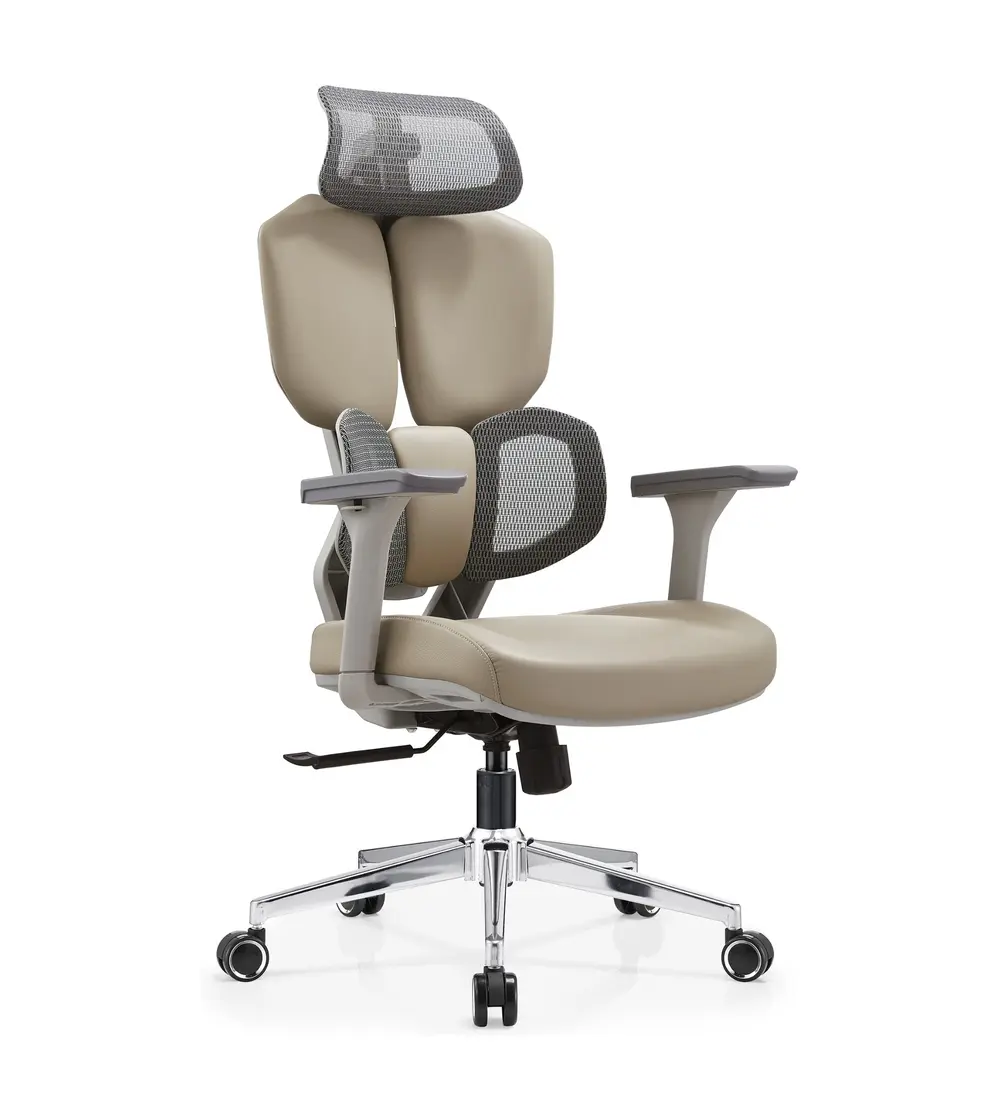
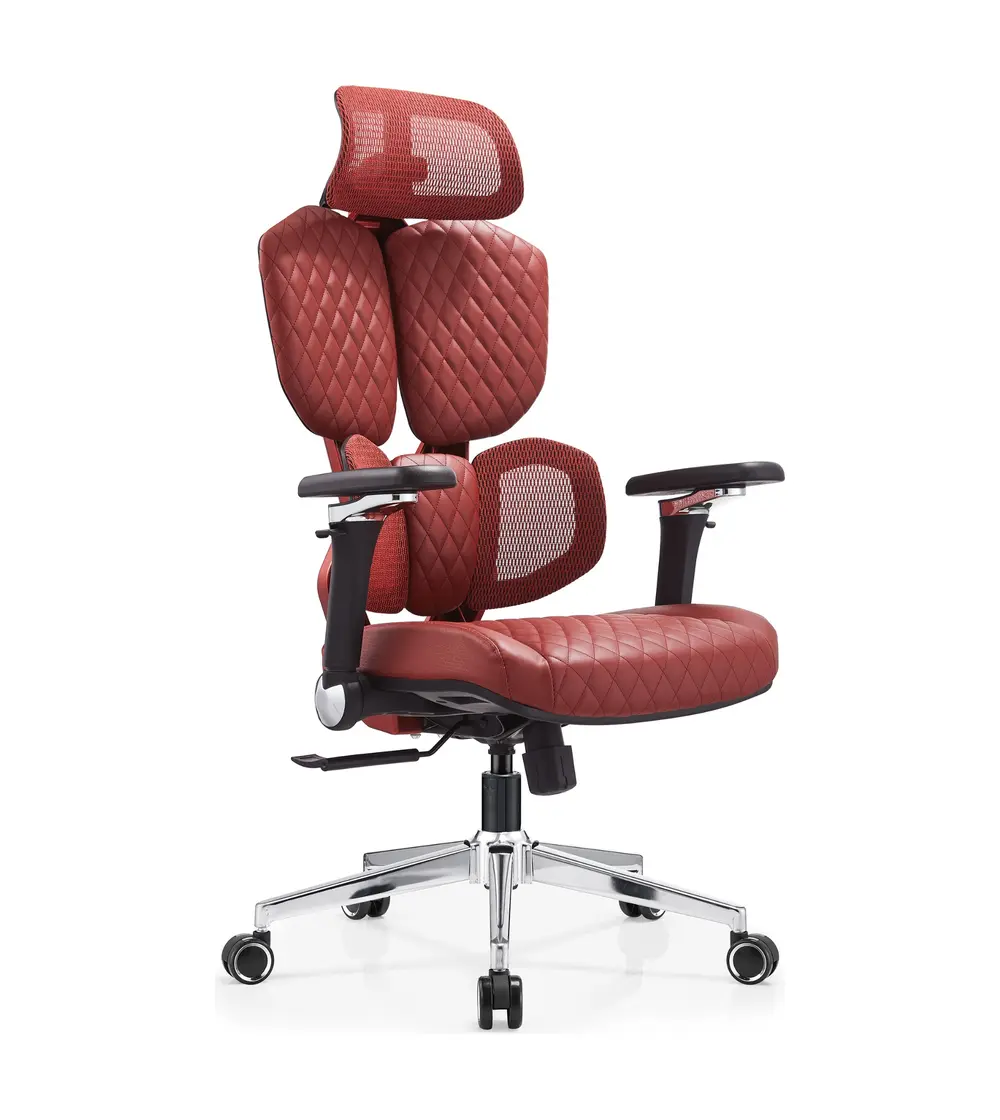
Add DJ-03 product detail page

Changed region(s): [[0.217, 0.0625, 0.806, 0.9375]]

diff --git a/products/dj-03-gaming-inspired-dual-back-ergonomic-chair.html b/products/dj-03-gaming-inspired-dual-back-ergonomic-chair.html
@@ -1,0 +1,216 @@
+<!doctype html>
+<html lang="en">
+<head>
+  <meta charset="utf-8">
+  <meta name="viewport" content="width=device-width, initial-scale=1">
+  <title>DJ-03 Gaming-Inspired Dual-Back Ergonomic Chair | HUANGSI</title>
+  <meta name="description" content="Explore the HUANGSI DJ-03 ergonomic chair with 5D headrest, adaptive dual back, 3D lumbar support, 5D armrests and three-position synchronized tilt.">
+  <link rel="canonical" href="https://huangsifurniture.com/products/dj-03-gaming-inspired-dual-back-ergonomic-chair">
+  <meta property="og:type" content="product">
+  <meta property="og:site_name" content="HUANGSI">
+  <meta property="og:title" content="DJ-03 Gaming-Inspired Dual-Back Ergonomic Chair | HUANGSI">
+  <meta property="og:description" content="Nine complete DJ-03 views in red, blue and gray with gaming-inspired dual-back support and embroidered leather-look upholstery.">
+  <meta property="og:url" content="https://huangsifurniture.com/products/dj-03-gaming-inspired-dual-back-ergonomic-chair">
+  <meta property="og:image" content="https://huangsifurniture.com/assets/images/dj-03-chair/dj-03-red-front.webp">
+  <meta name="twitter:card" content="summary_large_image">
+  <link rel="preload" as="image" href="/assets/images/dj-03-chair/dj-03-red-front.webp" fetchpriority="high">
+  <link rel="icon" href="/favicon.svg" type="image/svg+xml">
+  <link rel="stylesheet" href="/assets/css/styles.css">
+  <link rel="stylesheet" href="/assets/css/m15-chair-detail.css">
+  <link rel="stylesheet" href="/assets/css/dj-03-chair-detail.css">
+  <script defer src="/assets/js/main.js"></script>
+  <script defer src="/assets/js/m15-chair-detail.js"></script>
+  <script type="application/ld+json">
+  {
+    "@context":"https://schema.org",
+    "@type":"Product",
+    "name":"DJ-03 Gaming-Inspired Dual-Back Ergonomic Chair",
+    "sku":"DJ-03",
+    "description":"A commercial ergonomic office chair with a 5D headrest, active-support dual back, 3D adaptive lumbar support, 5D armrests and a three-position synchronized tilt mechanism.",
+    "brand":{"@type":"Brand","name":"HUANGSI"},
+    "manufacturer":{"@type":"Organization","name":"Foshan Huangsi Furniture Co., Ltd."},
+    "category":"Ergonomic Office Chairs",
+    "color":["Red","Blue","Gray"],
+    "url":"https://huangsifurniture.com/products/dj-03-gaming-inspired-dual-back-ergonomic-chair",
+    "image":[
+      "https://huangsifurniture.com/assets/images/dj-03-chair/dj-03-red-front.webp",
+      "https://huangsifurniture.com/assets/images/dj-03-chair/dj-03-red-rear-angle.webp",
+      "https://huangsifurniture.com/assets/images/dj-03-chair/dj-03-red-side.webp",
+      "https://huangsifurniture.com/assets/images/dj-03-chair/dj-03-blue-front.webp",
+      "https://huangsifurniture.com/assets/images/dj-03-chair/dj-03-blue-side.webp",
+      "https://huangsifurniture.com/assets/images/dj-03-chair/dj-03-blue-rear.webp",
+      "https://huangsifurniture.com/assets/images/dj-03-chair/dj-03-gray-front.webp",
+      "https://huangsifurniture.com/assets/images/dj-03-chair/dj-03-gray-front-angle.webp",
+      "https://huangsifurniture.com/assets/images/dj-03-chair/dj-03-gray-side.webp"
+    ],
+    "additionalProperty":[
+      {"@type":"PropertyValue","name":"Headrest","value":"5D height- and fore-aft-adjustable headrest with high-toughness glass-fiber reinforced components"},
+      {"@type":"PropertyValue","name":"Backrest","value":"Gaming-inspired active-support dual-back frame with glass-fiber reinforced injection-molded components"},
+      {"@type":"PropertyValue","name":"Lumbar support","value":"3D self-adaptive height-adjustable lumbar support"},
+      {"@type":"PropertyValue","name":"Upholstery","value":"Fashion-oriented embroidered leather-look backrest and seat upholstery"},
+      {"@type":"PropertyValue","name":"Seat","value":"High-density molded foam seat"},
+      {"@type":"PropertyValue","name":"Mechanism","value":"3.0 mm thick synchronized tilt mechanism with three-position lock; supplier-tested for 300,000 cycles"},
+      {"@type":"PropertyValue","name":"Armrests","value":"5D height-adjustable and rotating armrests with PU pads"},
+      {"@type":"PropertyValue","name":"Gas lift","value":"Class 4 black safety gas lift made from thickened seamless steel tube; TUV/SGS certified"},
+      {"@type":"PropertyValue","name":"Base","value":"350 mm high-strength electroplated silver five-star base"},
+      {"@type":"PropertyValue","name":"Casters","value":"Ø60 mm silent PU casters with silver trim"},
+      {"@type":"PropertyValue","name":"Carton","value":"75 × 42 × 63 cm; one chair per carton; 0.2 m³"},
+      {"@type":"PropertyValue","name":"Weight","value":"19.1 kg net; 21.6 kg gross"}
+    ]
+  }
+  </script>
+  <script type="application/ld+json">
+  {
+    "@context":"https://schema.org",
+    "@type":"BreadcrumbList",
+    "itemListElement":[
+      {"@type":"ListItem","position":1,"name":"Home","item":"https://huangsifurniture.com/"},
+      {"@type":"ListItem","position":2,"name":"Mesh Office Chairs","item":"https://huangsifurniture.com/products/mesh-office-chairs"},
+      {"@type":"ListItem","position":3,"name":"DJ-03 Gaming-Inspired Dual-Back Ergonomic Chair","item":"https://huangsifurniture.com/products/dj-03-gaming-inspired-dual-back-ergonomic-chair"}
+    ]
+  }
+  </script>
+</head>
+<body class="m15-page dj03-page">
+  <div class="topbar">
+    <div class="container">
+      <span>Factory supplier for bulk office furniture projects</span>
+      <span>OEM / ODM · Commercial Projects · Global Export · RFQ</span>
+    </div>
+  </div>
+
+  <header class="site-header">
+    <div class="container nav">
+      <a class="brand" href="/" aria-label="HUANGSI home"><img src="/assets/images/logo-huangsi.png" width="1105" height="170" alt="HUANGSI logo"></a>
+      <button class="mobile-toggle" type="button" aria-label="Open navigation" aria-controls="primary-navigation" aria-expanded="false">☰</button>
+      <nav class="nav-links" id="primary-navigation" aria-label="Primary navigation">
+        <a href="/commercial-office-furniture-manufacturer">Office Furniture</a>
+        <a href="/products/office-workstation">Workstations</a>
+        <a href="/products/mesh-office-chairs" aria-current="page">Office Chairs</a>
+        <a href="/products/executive-office-desk">Office Desks</a>
+        <a href="/applications/reception-area-furniture">Reception</a>
+        <a href="/oem-manufacturing">OEM</a>
+        <a href="/catalog">Catalog</a>
+        <a class="btn" href="/contact?product=DJ-03">Request Quote</a>
+      </nav>
+    </div>
+  </header>
+
+  <main>
+    <section class="m15-product" id="images">
+      <nav class="m15-breadcrumbs" aria-label="Breadcrumb">
+        <a href="/">Home</a><span>/</span><a href="/products/mesh-office-chairs">Mesh Office Chairs</a><span>/</span><span>DJ-03</span>
+      </nav>
+      <div class="m15-product-grid">
+        <div class="m15-product-copy">
+          <span class="m15-eyebrow">Ergonomic Office Chairs</span>
+          <h1>DJ-03 Gaming-Inspired Dual-Back Ergonomic Chair</h1>
+          <p class="m15-byline">by HUANGSI</p>
+          <p class="m15-intro">A gaming-inspired ergonomic chair with an active-support dual back, 5D headrest, 3D adaptive lumbar unit, 5D armrests and embroidered leather-look upholstery.</p>
+          <div class="dj03-configurations" aria-label="DJ-03 key configurations">
+            <span>5D headrest</span><span>Active dual back</span><span>3D lumbar</span><span>5D armrests</span><span>3-position tilt</span>
+          </div>
+          <div class="m15-actions">
+            <a class="m15-button m15-button--primary" href="/contact?product=DJ-03%20Gaming-Inspired%20Dual-Back%20Ergonomic%20Chair">Request project quote</a>
+            <a class="m15-button" href="#specifications">View specifications</a>
+          </div>
+          <p class="m15-note">Images show red, blue and gray reference configurations. Final colors, documentation and packing are confirmed with the quotation and approved sample.</p>
+        </div>
+        <div class="m15-gallery" data-m15-gallery aria-label="DJ-03 chair product image gallery">
+          <div class="m15-track" data-gallery-track tabindex="0" aria-live="polite">
+            <figure class="m15-slide" data-gallery-slide><img src="/assets/images/dj-03-chair/dj-03-red-front.webp" width="1400" height="900" alt="DJ-03 red gaming-inspired dual-back ergonomic chair, front view" fetchpriority="high"></figure>
+            <figure class="m15-slide" data-gallery-slide><img src="/assets/images/dj-03-chair/dj-03-red-rear-angle.webp" width="1400" height="900" alt="DJ-03 red gaming-inspired dual-back ergonomic chair, rear three-quarter view" loading="lazy"></figure>
+            <figure class="m15-slide" data-gallery-slide><img src="/assets/images/dj-03-chair/dj-03-red-side.webp" width="1400" height="900" alt="DJ-03 red gaming-inspired dual-back ergonomic chair, side view" loading="lazy"></figure>
+            <figure class="m15-slide" data-gallery-slide><img src="/assets/images/dj-03-chair/dj-03-blue-front.webp" width="1400" height="900" alt="DJ-03 blue gaming-inspired dual-back ergonomic chair, front view" loading="lazy"></figure>
+            <figure class="m15-slide" data-gallery-slide><img src="/assets/images/dj-03-chair/dj-03-blue-side.webp" width="1400" height="900" alt="DJ-03 blue gaming-inspired dual-back ergonomic chair, side view" loading="lazy"></figure>
+            <figure class="m15-slide" data-gallery-slide><img src="/assets/images/dj-03-chair/dj-03-blue-rear.webp" width="1400" height="900" alt="DJ-03 blue gaming-inspired dual-back ergonomic chair, rear view" loading="lazy"></figure>
+            <figure class="m15-slide" data-gallery-slide><img src="/assets/images/dj-03-chair/dj-03-gray-front.webp" width="1400" height="900" alt="DJ-03 gray gaming-inspired dual-back ergonomic chair, front view" loading="lazy"></figure>
+            <figure class="m15-slide" data-gallery-slide><img src="/assets/images/dj-03-chair/dj-03-gray-front-angle.webp" width="1400" height="900" alt="DJ-03 gray gaming-inspired dual-back ergonomic chair, front three-quarter view" loading="lazy"></figure>
+            <figure class="m15-slide" data-gallery-slide><img src="/assets/images/dj-03-chair/dj-03-gray-side.webp" width="1400" height="900" alt="DJ-03 gray gaming-inspired dual-back ergonomic chair, side view" loading="lazy"></figure>
+          </div>
+          <div class="m15-gallery-controls">
+            <div class="m15-gallery-arrows">
+              <button type="button" data-gallery-prev aria-label="Previous product image">←</button>
+              <button type="button" data-gallery-next aria-label="Next product image">→</button>
+            </div>
+            <span class="m15-count"><b data-gallery-current>01</b> / <span>09</span></span>
+            <div class="m15-dots" aria-label="Choose product image">
+              <button type="button" data-gallery-dot="0" aria-label="Show image 1" aria-current="true"></button>
+              <button type="button" data-gallery-dot="1" aria-label="Show image 2"></button>
+              <button type="button" data-gallery-dot="2" aria-label="Show image 3"></button>
+              <button type="button" data-gallery-dot="3" aria-label="Show image 4"></button>
+              <button type="button" data-gallery-dot="4" aria-label="Show image 5"></button>
+              <button type="button" data-gallery-dot="5" aria-label="Show image 6"></button>
+              <button type="button" data-gallery-dot="6" aria-label="Show image 7"></button>
+              <button type="button" data-gallery-dot="7" aria-label="Show image 8"></button>
+              <button type="button" data-gallery-dot="8" aria-label="Show image 9"></button>
+            </div>
+          </div>
+          <div class="m15-thumbnails" aria-label="Product image thumbnails">
+            <button type="button" data-gallery-thumb="0" aria-current="true"><img src="/assets/images/dj-03-chair/dj-03-red-front.webp" width="1400" height="900" alt="DJ-03 red front thumbnail"></button>
+            <button type="button" data-gallery-thumb="1"><img src="/assets/images/dj-03-chair/dj-03-red-rear-angle.webp" width="1400" height="900" alt="DJ-03 red rear angle thumbnail"></button>
+            <button type="button" data-gallery-thumb="2"><img src="/assets/images/dj-03-chair/dj-03-red-side.webp" width="1400" height="900" alt="DJ-03 red side thumbnail"></button>
+            <button type="button" data-gallery-thumb="3"><img src="/assets/images/dj-03-chair/dj-03-blue-front.webp" width="1400" height="900" alt="DJ-03 blue front thumbnail"></button>
+            <button type="button" data-gallery-thumb="4"><img src="/assets/images/dj-03-chair/dj-03-blue-side.webp" width="1400" height="900" alt="DJ-03 blue side thumbnail"></button>
+            <button type="button" data-gallery-thumb="5"><img src="/assets/images/dj-03-chair/dj-03-blue-rear.webp" width="1400" height="900" alt="DJ-03 blue rear thumbnail"></button>
+            <button type="button" data-gallery-thumb="6"><img src="/assets/images/dj-03-chair/dj-03-gray-front.webp" width="1400" height="900" alt="DJ-03 gray front thumbnail"></button>
+            <button type="button" data-gallery-thumb="7"><img src="/assets/images/dj-03-chair/dj-03-gray-front-angle.webp" width="1400" height="900" alt="DJ-03 gray front angle thumbnail"></button>
+            <button type="button" data-gallery-thumb="8"><img src="/assets/images/dj-03-chair/dj-03-gray-side.webp" width="1400" height="900" alt="DJ-03 gray side thumbnail"></button>
+          </div>
+        </div>
+      </div>
+    </section>
+    <nav class="m15-anchor-nav" aria-label="Product page sections">
+      <a href="#images">Images</a><a href="#specifications">Specifications</a><a href="#materials">Materials</a><a href="/contact?product=DJ-03">Inquiry</a>
+    </nav>
+    <section class="m15-overview" id="materials">
+      <div class="m15-content">
+        <div><span class="m15-eyebrow">Active dual-back support</span><h2>Performance styling with responsive support.</h2></div>
+        <p>The DJ-03 combines a gaming-inspired reinforced frame with active dual-back movement, height-adjustable lumbar support and multi-axis controls for commercial ergonomic seating projects.</p>
+      </div>
+      <div class="m15-feature-grid">
+        <article><span>01</span><h3>Responsive dual back</h3><p>The split backrest follows changes in body position while the lumbar unit adjusts vertically.</p></article>
+        <article><span>02</span><h3>Multi-axis adjustment</h3><p>A 5D headrest and 5D PU armrests support individual fit across varied users.</p></article>
+        <article><span>03</span><h3>Embroidered finish</h3><p>Quilted embroidery gives the padded backrest and molded-foam seat a distinctive project-ready appearance.</p></article>
+      </div>
+    </section>
+    <section class="m15-specs" id="specifications">
+      <div class="m15-specs-heading"><span class="m15-eyebrow">DJ-03 specification</span><h2>Commercial construction and packing data.</h2><p>Test values and certifications are supplier-provided. Final configuration and documentation are confirmed with the quotation and approved sample.</p></div>
+      <div class="m15-spec-table" role="table" aria-label="DJ-03 chair specifications">
+        <div role="row"><b role="cell">Headrest</b><span role="cell">5D height and fore-aft adjustment; high-toughness glass-fiber reinforced components</span></div>
+        <div role="row"><b role="cell">Back frame</b><span role="cell">Gaming-inspired active-support dual-back design with high-toughness glass-fiber reinforced injection-molded parts</span></div>
+        <div role="row"><b role="cell">Lumbar support</b><span role="cell">3D self-adaptive height-adjustable lumbar unit</span></div>
+        <div role="row"><b role="cell">Back testing</b><span role="cell">Supplier-specified to BIFMA 5.1</span></div>
+        <div role="row"><b role="cell">Upholstery</b><span role="cell">Fashion-oriented embroidered leather-look backrest and seat surface</span></div>
+        <div role="row"><b role="cell">Seat</b><span role="cell">High-density molded foam cushion with embroidered cover</span></div>
+        <div role="row"><b role="cell">Mechanism</b><span role="cell">3.0 mm thick synchronized tilt mechanism with three-position lock</span></div>
+        <div role="row"><b role="cell">Mechanism testing</b><span role="cell">Supplier-tested for 300,000 cycles with interference-free, low-noise movement</span></div>
+        <div role="row"><b role="cell">Armrests</b><span role="cell">5D height-adjustable and rotating armrests with PU pads</span></div>
+        <div role="row"><b role="cell">Gas lift</b><span role="cell">Class 4 black safety gas lift made from thickened seamless steel tube; TUV/SGS certified</span></div>
+        <div role="row"><b role="cell">Base</b><span role="cell">350 mm high-strength electroplated silver five-star base</span></div>
+        <div role="row"><b role="cell">Base testing</b><span role="cell">Static-load specification above 1,200 kg, exceeding the supplier-stated BIFMA requirement</span></div>
+        <div role="row"><b role="cell">Casters</b><span role="cell">Ø60 mm silent PU casters with silver trim</span></div>
+        <div role="row"><b role="cell">Carton</b><span role="cell">75 × 42 × 63 cm</span></div>
+        <div role="row"><b role="cell">Packing</b><span role="cell">One chair per carton; 0.2 m³</span></div>
+        <div role="row"><b role="cell">Weight</b><span role="cell">Net weight 19.1 kg; gross weight 21.6 kg</span></div>
+      </div>
+    </section>
+    <section class="m15-cta">
+      <div><span class="m15-eyebrow">Commercial project supply</span><h2>Specify DJ-03 for distinctive ergonomic seating projects.</h2></div>
+      <div><p>Send the quantity, destination, color and project timeline for configuration review and export quotation.</p><a class="m15-button m15-button--light" href="/contact?product=DJ-03%20Gaming-Inspired%20Dual-Back%20Ergonomic%20Chair">Request DJ-03 details</a></div>
+    </section>
+  </main>
+
+  <footer class="footer">
+    <div class="container footer-grid">
+      <div><a class="brand" href="/"><img src="/assets/images/logo-huangsi.png" width="1105" height="170" alt="HUANGSI logo"></a><p>Commercial office furniture manufacturer for workstations, office chairs, desks, storage, acoustic solutions and OEM projects.</p><div class="badge-row"><span class="badge">Bulk Export</span><span class="badge">OEM / ODM</span><span class="badge">Project Supply</span></div></div>
+      <div><h4>Products</h4><a href="/products/office-workstation">Office Workstations</a><a href="/products/mesh-office-chairs">Mesh Office Chairs</a><a href="/products/leather-office-chair">Leather Office Chairs</a><a href="/products/executive-office-desk">Executive Desks</a></div>
+      <div><h4>Solutions</h4><a href="/applications/corporate-office-projects">Corporate Offices</a><a href="/applications/co-working-space-furniture">Co-working Spaces</a><a href="/products/acoustic-wall-panels">Acoustic Panels</a><a href="/oem-manufacturing">OEM Manufacturing</a></div>
+      <div><h4>Contact</h4><a href="mailto:huangsifurniture@gmail.com">huangsifurniture@gmail.com</a><a href="tel:+8613928602558">+8613928602558</a><a href="/contact">Send RFQ</a><a href="/catalog">Request Catalog</a></div>
+    </div>
+    <div class="container footer-bottom"><span>© 2026 Foshan Huangsi Furniture Co., Ltd. All rights reserved.</span><span class="footer-legal"><a href="/privacy">Privacy</a> · <a href="/terms">Terms</a> · <a href="/sitemap.xml">Sitemap</a></span></div>
+  </footer>
+</body>
+</html>
+
+

diff --git a/products/mesh-office-chairs.html b/products/mesh-office-chairs.html
@@ -121,10 +121,10 @@
             <div class="mesh-chair-card__media"><span class="mesh-chair-card__tag">CUSTOMIZE</span><img src="/assets/images/mesh-chair-collection/imgm-4586.webp" width="1000" height="1120" alt="W009-1 gray adaptive dual-back ergonomic office chair with footrest" loading="lazy"></div>
             <div class="mesh-chair-card__body"><span class="mesh-chair-card__meta">HUANGSI · W009-1</span><h2>W009-1 Adaptive Dual-Back Ergonomic Office Chair</h2><span class="mesh-chair-card__link">View product <span>→</span></span></div>
           </a>
-          <article class="mesh-chair-card" data-name="IMGV-6707" data-order="10">
-            <div class="mesh-chair-card__media"><span class="mesh-chair-card__tag">CUSTOMIZE</span><img src="/assets/images/mesh-chair-collection/imgv-6707.webp" width="1000" height="1120" alt="IMGV-6707 beige dual-back ergonomic office chair" loading="lazy"></div>
-            <div class="mesh-chair-card__body"><span class="mesh-chair-card__meta">HUANGSI · IMGV-6707</span><h2>IMGV-6707 Dual-Back Ergonomic Chair</h2><a class="mesh-chair-card__link" href="/contact?product=IMGV-6707">Request details <span>→</span></a></div>
-          </article>
+          <a class="mesh-chair-card mesh-chair-card--link" data-name="DJ-03" data-order="10" href="/products/dj-03-gaming-inspired-dual-back-ergonomic-chair" aria-label="View DJ-03 Gaming-Inspired Dual-Back Ergonomic Chair details">
+            <div class="mesh-chair-card__media"><span class="mesh-chair-card__tag">CUSTOMIZE</span><img src="/assets/images/mesh-chair-collection/imgv-6707.webp" width="1000" height="1120" alt="DJ-03 red gaming-inspired dual-back ergonomic office chair" loading="lazy"></div>
+            <div class="mesh-chair-card__body"><span class="mesh-chair-card__meta">HUANGSI · DJ-03</span><h2>DJ-03 Gaming-Inspired Dual-Back Ergonomic Chair</h2><span class="mesh-chair-card__link">View product <span>→</span></span></div>
+          </a>
           <article class="mesh-chair-card" data-name="IMGV-6720" data-order="11">
             <div class="mesh-chair-card__media"><span class="mesh-chair-card__tag">CUSTOMIZE</span><img src="/assets/images/mesh-chair-collection/imgv-6720.webp" width="1000" height="1120" alt="IMGV-6720 red and black technical high-back office chair" loading="lazy"></div>
             <div class="mesh-chair-card__body"><span class="mesh-chair-card__meta">HUANGSI · IMGV-6720</span><h2>IMGV-6720 Technical High-Back Chair</h2><a class="mesh-chair-card__link" href="/contact?product=IMGV-6720">Request details <span>→</span></a></div>

diff --git a/assets/css/dj-03-chair-detail.css b/assets/css/dj-03-chair-detail.css
@@ -1,0 +1,32 @@
+.dj03-page .m15-thumbnails {
+  grid-template-columns: repeat(9, minmax(72px, 1fr));
+  overflow-x: auto;
+  overscroll-behavior-x: contain;
+  scrollbar-color: #aeb7bc #edf0f1;
+  scrollbar-width: thin;
+}
+
+.dj03-page .m15-product-copy h1 {
+  font-size: clamp(34px, 2.8vw, 50px);
+}
+
+.dj03-configurations {
+  display: flex;
+  flex-wrap: wrap;
+  gap: 8px;
+  margin-top: 28px;
+}
+
+.dj03-configurations span {
+  padding: 8px 11px;
+  border: 1px solid #cfd5d8;
+  border-radius: 999px;
+  color: #536068;
+  font-size: 11px;
+}
+
+@media (max-width: 520px) {
+  .dj03-page .m15-thumbnails {
+    grid-template-columns: repeat(9, 72px);
+  }
+}
